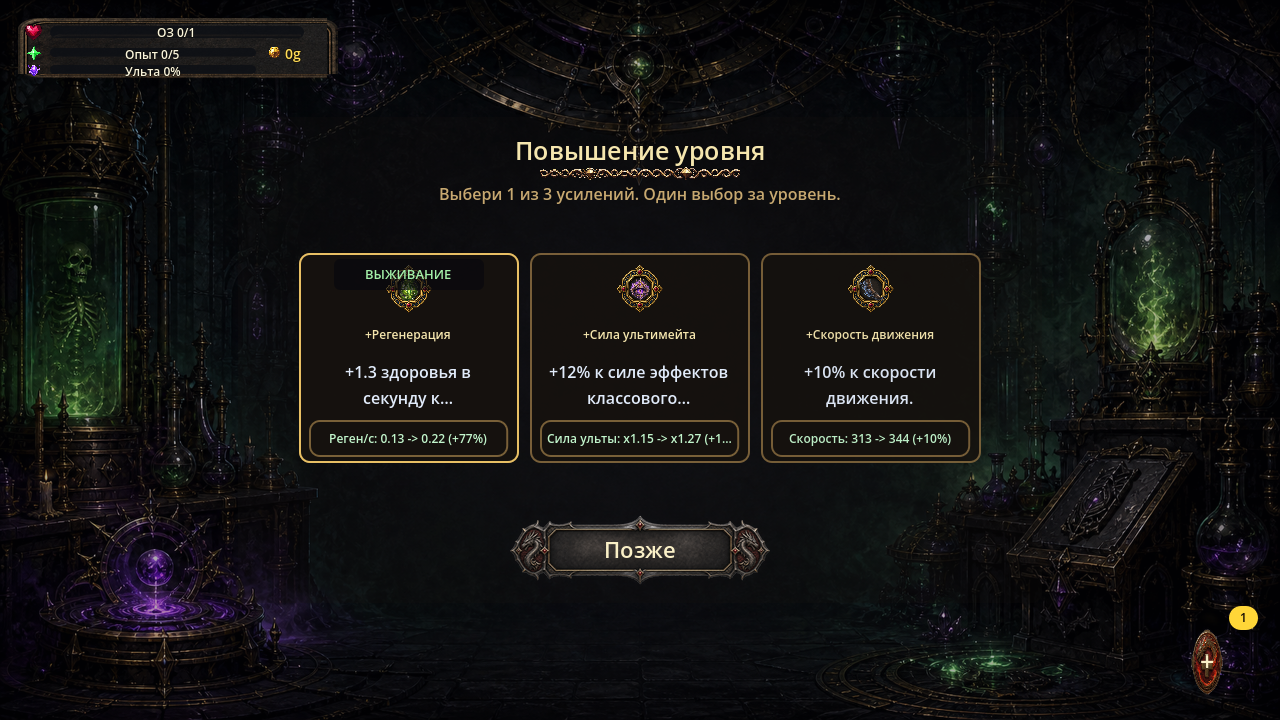
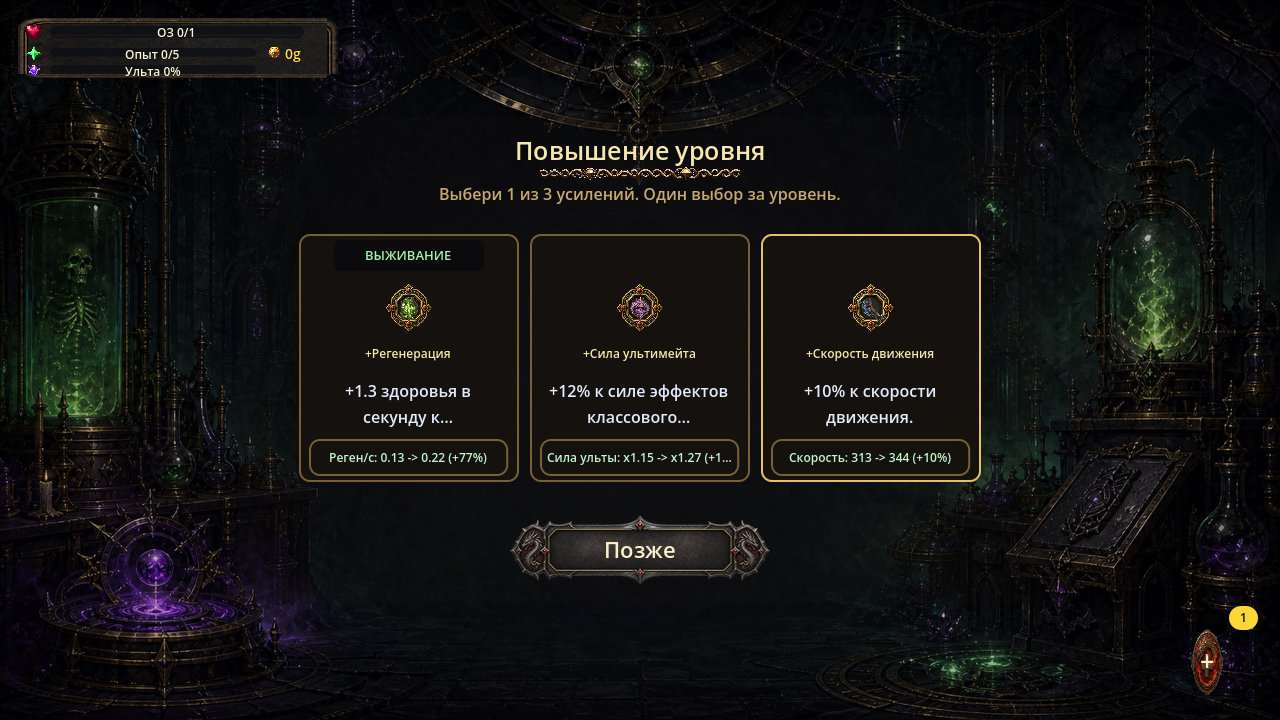
fix: separate Level Up advisor badge from socket (SCRUM-1032)

diff --git a/docs/tasks/bug_scrum985_levelup_720p_badge_socket_overlap_task.md b/docs/tasks/bug_scrum985_levelup_720p_badge_socket_overlap_task.md
@@ -43,17 +43,21 @@ Locked paths: `scripts/ui_screens.gd`, `tests/ui_no_overlap_matrix_test.gd`,
 
 ## Acceptance Criteria
 
-- [ ] Badge rect и socket ornament rect disjoint на `1280x720`, `1920x1080`,
+- [x] Badge rect и socket ornament rect disjoint на `1280x720`, `1920x1080`,
       `2560x1440`.
-- [ ] Badge rect и reward-icon rect disjoint на той же матрице.
-- [ ] Полная русская подпись advisor-бейджа читается без clipping/ellipsis.
-- [ ] Ровно три карточки, icon-safe containment, `Позже` и no-outer-frame
+- [x] Badge rect и reward-icon rect disjoint на той же матрице.
+- [x] Полная русская подпись advisor-бейджа читается без clipping/ellipsis.
+- [x] Ровно три карточки, icon-safe containment, `Позже` и no-outer-frame
       контракт SCRUM-985 не изменены.
-- [ ] Hover/focus/pressed не меняют геометрию карточки, бейджа, сокета и иконки.
-- [ ] Focused Level Up capture/test и `ui_no_overlap_matrix_test.gd` явно
+- [x] Focus не меняет геометрию карточки, бейджа, сокета и иконки; hover/pressed
+      используют те же fixed Control rects/styles без layout mutation.
+- [x] Focused Level Up capture/test и `ui_no_overlap_matrix_test.gd` явно
       проверяют badge-vs-socket/icon disjointness и больше не false-green.
-- [ ] `runtime_smoke_ui_test.gd`, Level Up gamepad full-flow и полный
-      `runtime_smoke_test.gd` проходят.
+- [x] `runtime_smoke_ui_test.gd`, `gamepad_inrun_ui_test.gd` и
+      `gamepad_menu_focus_test.gd` проходят.
+- [x] `gamepad_full_flow_smoke_test.gd` проходит.
+- [ ] Полный `runtime_smoke_test.gd` проходит после release активного
+      Claude-lock на umbrella smoke.
 
 ## Handoff
 
@@ -61,3 +65,31 @@ QA runtime не меняет. `/root` принял SCRUM-1032 как явно co
 активным SCRUM-981: оба тикета используют те же уже locked
 `scripts/ui_screens.gd` и `tests/ui_no_overlap_matrix_test.gd`, поэтому второй
 конфликтующий worker/worktree не создаётся.
+
+## Implementation result (local, pending umbrella gate)
+
+- `_level_up_card_plan()` теперь всегда резервирует отдельный badge row для
+  всего набора карточек, включая compact tier; бюджетный цикл уже умеет
+  сокращать глубину описания/дельт, поэтому накладывать контент на сокет больше
+  не требуется.
+- Capture oracle теперь завершается кодом 1 при icon-safe, disjointness,
+  complete-label или focus-stability регрессии; no-overlap matrix повторяет
+  независимые runtime-ассерты. После независимого review оба oracle дополнены
+  обязательным наличием advisor badge и сравнением socket/title top всех трёх
+  карточек, поэтому исчезнувший бейдж или несимметричный reserved row также
+  больше не дают false-green.
+- Новый 1280x720 rect: badge `Rect2(334,240,150,31)`, socket
+  `Rect2(379,278,60,60)`, icon `Rect2(392,291,34,34)`; оба intersection пусты.
+- 1280x720, 1920x1080, 2560x1440: `icon safe=true`,
+  `badge/socket disjoint=true`, `badge/icon disjoint=true`,
+  `label full=true`, `focus stable=true`.
+- PASS: `tools/capture_scrum985_level_up.gd`,
+  `tests/level_up_advisor_test.gd`, `tests/ui_no_overlap_matrix_test.gd`,
+  `tests/runtime_smoke_ui_test.gd`, `tests/gamepad_inrun_ui_test.gd`,
+  `tests/gamepad_menu_focus_test.gd`, `tests/gamepad_full_flow_smoke_test.gd`,
+  `tests/dark_fantasy_ui_theme_test.gd`.
+- Independent re-review: FINAL PASS; обязательное наличие бейджа и одинаковые
+  socket/title tops всех трёх карточек проверены, остаточных findings нет.
+
+Disk cleanup: final cleanup pending because the same worktree still owns the
+blocked SCRUM-981 umbrella gate.

diff --git a/docs/design/previews/scrum985_level_up_cleanup/runtime_matrix.md b/docs/design/previews/scrum985_level_up_cleanup/runtime_matrix.md
@@ -1,44 +1,40 @@
-# SCRUM-985 Level Up runtime visual QA
+# SCRUM-985 Level Up visual QA
 
 ## 1280x720
-
 - outer frame present: `false`
 - dim alpha: `0.240`
 - readable shade alpha: `0.120`
 - panel alpha: `0.200`
-
-| card | socket | icon | inner-safe contains icon |
-| --- | --- | --- | --- |
-| `0` | `(379,259) 60x60` | `(392,272) 34x34` | `true` |
-| `1` | `(610,259) 60x60` | `(623,272) 34x34` | `true` |
-| `2` | `(841,259) 60x60` | `(854,272) 34x34` | `true` |
+| card | badge | socket | icon | icon safe | badge/socket disjoint | badge/icon disjoint | label full | focus stable |
+| --- | --- | --- | --- | --- | --- | --- | --- | --- |
+| `0` | `[P: (334.0, 240.0), S: (150.0, 31.0)]` | `[P: (379.0, 278.0), S: (60.0, 60.0)]` | `[P: (392.0, 291.0), S: (34.0, 34.0)]` | `true` | `true` | `true` | `true` | `true` |
+| `1` | `n/a` | `[P: (610.0, 278.0), S: (60.0, 60.0)]` | `[P: (623.0, 291.0), S: (34.0, 34.0)]` | `true` | `true` | `true` | `n/a` | `true` |
+| `2` | `n/a` | `[P: (841.0, 278.0), S: (60.0, 60.0)]` | `[P: (854.0, 291.0), S: (34.0, 34.0)]` | `true` | `true` | `true` | `n/a` | `true` |
+- advisor badges: `1`, captions: `["ВЫЖИВАНИЕ"]`, expected fixture badge present: `true`
+- socket tops: `[278.0, 278.0, 278.0]`; title tops: `[345.0, 345.0, 345.0]`; three-card stacks aligned: `true`
 
 ## 1920x1080
-
 - outer frame present: `false`
 - dim alpha: `0.240`
 - readable shade alpha: `0.120`
 - panel alpha: `0.200`
-
-| card | socket | icon | inner-safe contains icon |
-| --- | --- | --- | --- |
-| `0` | `(565.8,439) 90x90` | `(585.8,459) 51x51` | `true` |
-| `1` | `(914.8,439) 90x90` | `(934.8,459) 51x51` | `true` |
-| `2` | `(1263.8,439) 90x90` | `(1283.8,459) 51x51` | `true` |
+| card | badge | socket | icon | icon safe | badge/socket disjoint | badge/icon disjoint | label full | focus stable |
+| --- | --- | --- | --- | --- | --- | --- | --- | --- |
+| `0` | `[P: (497.8, 397.0), S: (226.0, 31.0)]` | `[P: (565.8, 439.0), S: (90.0, 90.0)]` | `[P: (585.8, 459.0), S: (51.0, 51.0)]` | `true` | `true` | `true` | `true` | `true` |
+| `1` | `n/a` | `[P: (914.8, 439.0), S: (90.0, 90.0)]` | `[P: (934.8, 459.0), S: (51.0, 51.0)]` | `true` | `true` | `true` | `n/a` | `true` |
+| `2` | `n/a` | `[P: (1263.8, 439.0), S: (90.0, 90.0)]` | `[P: (1283.8, 459.0), S: (51.0, 51.0)]` | `true` | `true` | `true` | `n/a` | `true` |
+- advisor badges: `1`, captions: `["ВЫЖИВАНИЕ"]`, expected fixture badge present: `true`
+- socket tops: `[439.0, 439.0, 439.0]`; title tops: `[540.0, 540.0, 540.0]`; three-card stacks aligned: `true`
 
 ## 2560x1440
-
 - outer frame present: `false`
 - dim alpha: `0.240`
 - readable shade alpha: `0.120`
 - panel alpha: `0.200`
-
-| card | socket | icon | inner-safe contains icon |
-| --- | --- | --- | --- |
-| `0` | `(752,611) 121x121` | `(779,638) 68x68` | `true` |
-| `1` | `(1219,611) 121x121` | `(1246,638) 68x68` | `true` |
-| `2` | `(1686,611) 121x121` | `(1713,638) 68x68` | `true` |
-
-Generated by `tools/capture_scrum985_level_up.gd` through the repository Godot
-semaphore gate. All captures passed the outer-frame, material-opacity, and
-socket inner-safe assertions.
+| card | badge | socket | icon | icon safe | badge/socket disjoint | badge/icon disjoint | label full | focus stable |
+| --- | --- | --- | --- | --- | --- | --- | --- | --- |
+| `0` | `[P: (662.0, 565.0), S: (302.0, 31.0)]` | `[P: (752.0, 611.0), S: (121.0, 121.0)]` | `[P: (779.0, 638.0), S: (68.0, 68.0)]` | `true` | `true` | `true` | `true` | `true` |
+| `1` | `n/a` | `[P: (1219.0, 611.0), S: (121.0, 121.0)]` | `[P: (1246.0, 638.0), S: (68.0, 68.0)]` | `true` | `true` | `true` | `n/a` | `true` |
+| `2` | `n/a` | `[P: (1686.0, 611.0), S: (121.0, 121.0)]` | `[P: (1713.0, 638.0), S: (68.0, 68.0)]` | `true` | `true` | `true` | `n/a` | `true` |
+- advisor badges: `1`, captions: `["ВЫЖИВАНИЕ"]`, expected fixture badge present: `true`
+- socket tops: `[611.0, 611.0, 611.0]`; title tops: `[747.0, 747.0, 747.0]`; three-card stacks aligned: `true`

diff --git a/docs/tasks/SCRUM-985_level_up_icon_frame_background_fix.md b/docs/tasks/SCRUM-985_level_up_icon_frame_background_fix.md
@@ -116,3 +116,17 @@ Disk cleanup: disposable QA `.godot`, `build/qa/scrum985`, временные л
 worktree и локальная QA-ветка удаляются после commit/push этого verdict mirror.
 Thread cleanup: not a disposable standalone Codex thread; subagent returns to
 the parent dispatcher after cleanup.
+
+## Rework SCRUM-1032 (2026-07-10)
+
+QA-дефект принят `/root` как combined scope с SCRUM-981 под уже существующими
+lock `scripts/ui_screens.gd` и `tests/ui_no_overlap_matrix_test.gd`. Compact
+card plan теперь резервирует отдельный ряд advisor-бейджа вместо overlay на
+сокет. На новой 1280x720 capture badge находится на `y=240..271`, socket — на
+`y=278..338`, icon — на `y=291..325`; пересечений нет. Тот же контракт проходит
+на 1920x1080 и 2560x1440, полная подпись читаема, focus geometry stable.
+
+Focused capture, Level Up advisor, no-overlap, runtime UI и gamepad in-run/menu
+focus gates PASS. Полный smoke и push ожидают release физического Claude-lock
+на `tests/runtime_smoke_test.gd`; после landing SCRUM-985 должен вернуться в
+независимый QA, а не закрываться напрямую.

diff --git a/docs/design/systems/menus_ui.md b/docs/design/systems/menus_ui.md
@@ -682,7 +682,12 @@ rims, or badges.
   readable shade, and a `0.24` intro dim instead of the SCRUM-892 `0.82` dim.
   Local card/socket ornament stays visible. Level Up explicitly opts out of the
   registry's small-icon readability enlargement, so each reward icon keeps the
-  exact calculated inner socket rect and never crosses the ring. PixelLab-first
+  exact calculated inner socket rect and never crosses the ring. SCRUM-1032
+  makes the advisor badge a separate stack row even in the compact 720p tier;
+  it never overlays the socket ornament or reward icon, and every card reserves
+  the same row so sockets/titles remain aligned. The responsive matrix also
+  verifies that the full Russian badge label fits and focus does not move the
+  badge/socket/icon geometry. PixelLab-first
   provenance and the accepted no-shell mockup live under
   `docs/design/mockups/scrum985_level_up_cleanup/` and
   `docs/design/references/scrum985_level_up_cleanup/`; runtime captures for
